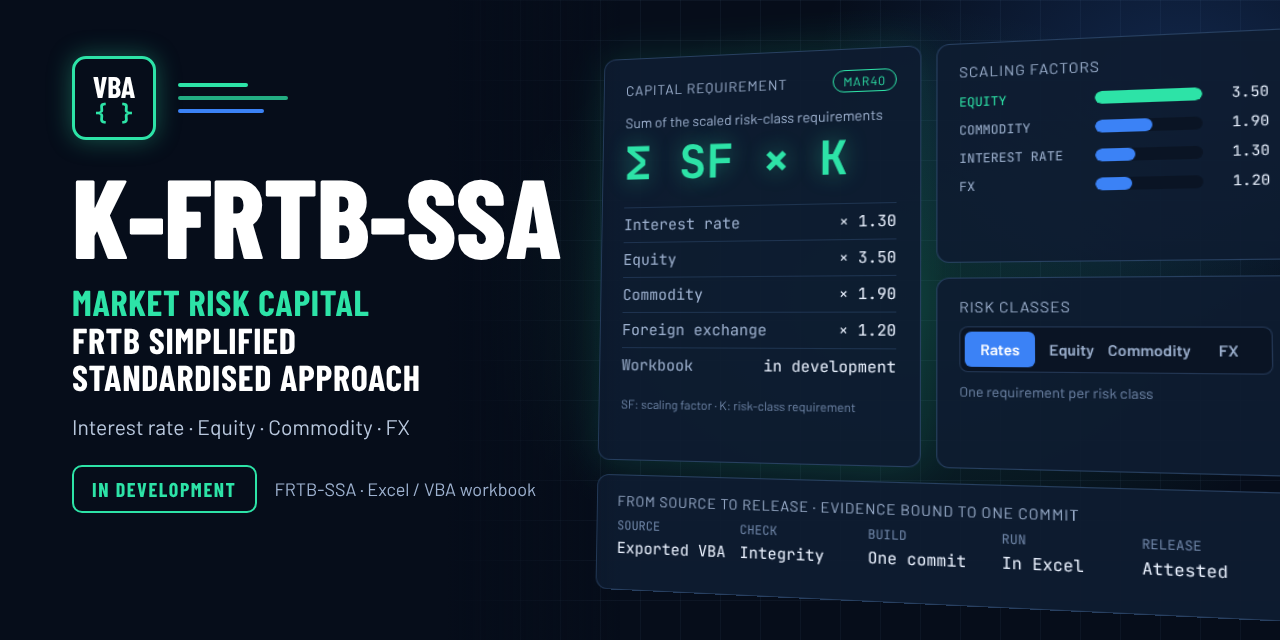
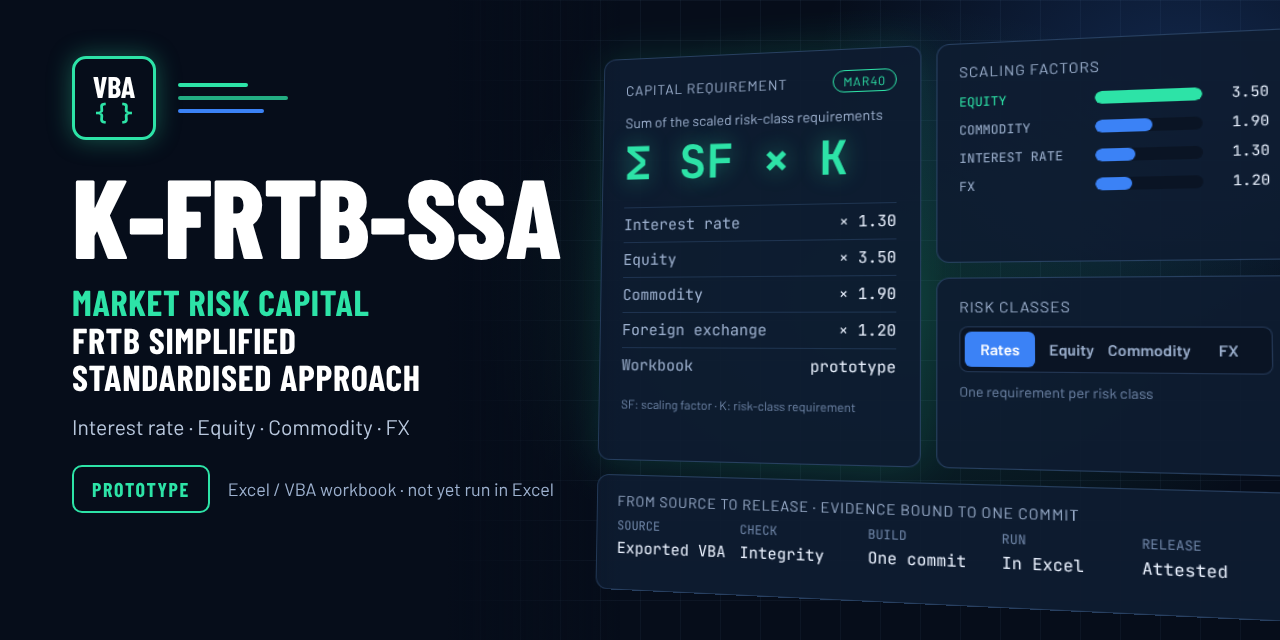
Describe the prototype and update the status documents
A guide for the person who uses the workbook, docs/PROTOTYPE.md, says
what it calculates, its sheets and inputs, how to run it, the four
worksheet functions, how to build it, what it does not do and what has
been checked. SECURITY.md states, for each entry point of the workbook,
the project's test suites and the LibreOffice tools, what they read,
write, save or delete. INSTALLATION.md records the host policy as a
decision. The structure guide describes the two tiers of the public API
inventory. The social preview says Prototype and that the workbook has
not been run in Excel yet, and is rendered again with its SHA-256 updated.

The template called the re-calculation of the sample data independent in
three places, which the validation plan contradicts. It names it as the
project's own re-calculation, with illustrative values, and is written
again by the tool.

Resolves #23
Resolves #54

Claude-Session: https://claude.ai/code/session_01LdwnqXExeVSxoj9U3xrCQu

Changed region(s): [[0.0625, 0.7188, 0.4375, 0.8125], [0.5938, 0.5625, 0.7188, 0.5938]]

diff --git a/docs/assets/social-preview.html b/docs/assets/social-preview.html
@@ -55,7 +55,7 @@ body { margin: 0; }
 </style>
 </head>
 <body>
-<!-- No figure here is a result: the workbook calculates nothing yet. The four scaling factors are those of the simplified standardised approach. -->
+<!-- No figure here is a result: the workbook is a prototype that has not been run in Excel. The four scaling factors are those of the simplified standardised approach, MAR40.2. -->
 <div class="frame">
 
 <div class="cards">
@@ -74,7 +74,7 @@ body { margin: 0; }
 <div class="row"><span class="muted">Equity</span><span>&times; 3.50</span></div>
 <div class="row"><span class="muted">Commodity</span><span>&times; 1.90</span></div>
 <div class="row"><span class="muted">Foreign exchange</span><span>&times; 1.20</span></div>
-<div class="row"><span class="muted">Workbook</span><span>in development</span></div>
+<div class="row"><span class="muted">Workbook</span><span>prototype</span></div>
 </div>
 <span class="faint" style="font-size: 12px">SF: scaling factor &middot; K: risk-class requirement</span>
 </div>
@@ -131,8 +131,8 @@ body { margin: 0; }
 <div class="condensed green" style="font-weight: 700; font-size: 36px; line-height: 1.05; letter-spacing: 0.02em">MARKET RISK CAPITAL<br><span style="color: #FFFFFF">FRTB SIMPLIFIED<br>STANDARDISED APPROACH</span></div>
 <div style="font-size: 21px; color: #B9C8DE">Interest rate &middot; Equity &middot; Commodity &middot; FX</div>
 <div style="display: flex; align-items: center; gap: 18px; margin-top: 8px">
-<span class="condensed green" style="padding: 10px 18px; border: 2px solid #2DE3A7; border-radius: 10px; font-weight: 700; font-size: 20px; letter-spacing: 0.08em">IN DEVELOPMENT</span>
-<span class="muted" style="font-size: 18px">FRTB-SSA &middot; Excel / VBA workbook</span>
+<span class="condensed green" style="padding: 10px 18px; border: 2px solid #2DE3A7; border-radius: 10px; font-weight: 700; font-size: 20px; letter-spacing: 0.08em">PROTOTYPE</span>
+<span class="muted" style="font-size: 18px">Excel / VBA workbook &middot; not yet run in Excel</span>
 </div>
 </div>
 

diff --git a/tools/prototype/build_prototype.py b/tools/prototype/build_prototype.py
@@ -1243,13 +1243,14 @@ def build_test_catalogue(ctx: Context) -> None:
     calc = D.calc_all()
     ws = new_sheet(wb, "TestCatalogue", "Reference-test catalogue",
                    "Each test reads one output cell. T01-T03 reproduce the published MAR40.61 Table 9 example; the others "
-                   "are an independent re-calculation (Python) of the shipped sample data, so they FAIL by design once the "
-                   "sample positions or parameters are changed.", "N", "test",
-                   {"C": 6.8, "D": 14.8, "E": 46.8, "F": 26.8, "G": 24.8, "H": 12.8, "I": 16.8, "J": 16.8, "K": 11.8,
+                   "compare the shipped sample data with a re-calculation (Python) that the project wrote from the same "
+                   "reading of MAR40 as the engine, so its values are illustrative and validate no rule. They FAIL by "
+                   "design once the sample positions or parameters are changed.", "N", "test",
+                   {"C": 6.8, "D": 14.8, "E": 46.8, "F": 26.8, "G": 27.8, "H": 12.8, "I": 16.8, "J": 16.8, "K": 11.8,
                     "L": 9.8, "M": 9.8, "N": 4}, 33.95)
     header(ws, 6, "C", ["Test", "Area", "Description", "Source", "Source status", "Sheet", "Actual", "Expected",
                         "Abs diff", "Tolerance", "Result"], "input", 11, 30, 5)
-    pub, ind = "Official published example", "Independent re-calculation"
+    pub, ind = "Official published example", "Illustrative re-calculation"
     ir = calc["ir"]
     zrow = {c: ZF + i for i, (c, _, _) in enumerate(D.FX)}
     tests: list[tuple[str, str, str, str, str, str, float]] = [
@@ -1440,7 +1441,7 @@ def fill_home(ctx: Context) -> None:
         ("COCalc", "Outputs. Every intermediate per commodity row."),
         ("FXCalc", "Outputs. Every intermediate per FX row."),
         ("Checks", "Outputs. Errors, warnings and information lines; rejected rows with reasons."),
-        ("TestCatalogue", "Reference and tests. Published example and independent re-calculation."),
+        ("TestCatalogue", "Reference and tests. Published example and the project's own re-calculation."),
         ("README", "Reference. Methodology, conventions, scope and limitations."),
     ]
     for k, (sh, txt) in enumerate(sheet_desc):

diff --git a/docs/PROTOTYPE.md b/docs/PROTOTYPE.md
@@ -1,0 +1,187 @@
+# 🧮 The prototype
+
+This guide is for you if you want to use the workbook, or to understand what
+it does before you read its contracts. It is a prototype: I have run it only
+in LibreOffice's VBA mode, never in Excel, and I have not validated it for
+regulatory reporting. [What has been checked](#what-has-been-checked) says
+what exists.
+
+## What it calculates
+
+The market risk own funds requirement and the risk-weighted assets under the
+simplified standardised approach of the Basel Framework's chapter MAR40
+([`SRC-02`](methodology/SOURCES.md)):
+
+- **Interest rate risk:** the specific risk of debt positions, netted per
+  issue, and the general market risk by the maturity method, with one ladder
+  per currency ([`CALC-02`](methodology/CALCULATION_CONTRACTS.md),
+  [`CALC-03`](methodology/CALCULATION_CONTRACTS.md)).
+- **Equity risk:** the specific risk, the index charge and the general market
+  risk per national market (`CALC-04`).
+- **Commodities risk:** the simplified approach, per commodity (`CALC-05`).
+- **Foreign exchange risk,** gold included, by the shorthand method
+  (`CALC-06`).
+- **The requirement:** the four charges and the non-delta option charges you
+  enter, each class multiplied by its scaling factor, and the risk-weighted
+  assets as 12.5 times the total (`CALC-07`, `CALC-08`).
+
+The [contracts](methodology/CALCULATION_CONTRACTS.md) state each rule with its
+paragraph of MAR40.
+
+## What you need
+
+- Microsoft 365 Excel desktop on Windows, 64-bit, the host the
+  [installation guide](../INSTALLATION.md#%EF%B8%8F-host-policy) names.
+  Nothing here needs a lower macro-security level.
+- A workbook you build from the source of one commit. The repository ships no
+  workbook, and none is released: [How to build it](#how-to-build-it).
+- Macros enabled in that workbook. Its code reads and writes the workbook
+  itself and nothing else: [`SECURITY.md`](../SECURITY.md#%EF%B8%8F-runtime-risk-surface)
+  says what each entry point does.
+
+## The sheets
+
+The workbook has 18 sheets, all visible, in this order
+([workbook contract](methodology/WORKBOOK_CONTRACT.md#sheets)):
+
+| Kind | Sheets | What you do |
+| --- | --- | --- |
+| Reference | `Home`, `README` | Read them. `Home` says what to do; `README` holds the conventions, the limits and the build stamp |
+| Input | `Params`, `IRPositions`, `EQPositions`, `COPositions`, `FXPositions`, `OptionCharges` | Type in them. No code writes them |
+| Output | `Results`, `IR_Zones`, `IR_Ladder`, `Buckets`, `IRCalc`, `EQCalc`, `COCalc`, `FXCalc` | Read them. A run replaces their content |
+| Diagnostics | `Checks`, `TestCatalogue` | Read them: the findings of a run, and the comparison of the sample data with expected values |
+
+## The inputs
+
+The [data contract](methodology/DATA_CONTRACT.md) defines every field, its
+unit, its allowed values and how a cell is read.
+
+- **`Params`:** the reporting date and currency, the MAR40 constants, the
+  specific-risk table, the time bands and the FX rates, one per currency and
+  one for gold. The constants hold the reference values of MAR40; a value you
+  change is a what-if, and `Checks` reports it.
+- **`IRPositions`, `EQPositions`, `COPositions`, `FXPositions`:** one row per
+  position, up to 500 rows on each sheet. The workbook converts nothing: a
+  derivative is a row for each leg, the category and rating of an issuer are
+  yours to enter, and the net position of a currency is the figure you
+  derive outside the workbook.
+- **`OptionCharges`:** the non-delta charge of each risk class, calculated
+  outside the workbook, one value per class, added before scaling.
+
+The template ships synthetic sample data. It reproduces the published example
+of table 9 of MAR40.61 for foreign exchange risk, and is otherwise
+illustrative: replace it with your own synthetic or real inputs before you
+read a result.
+
+## How to run it
+
+Press **Alt+F8** and run one of the macros of `M_Main`:
+
+| Macro | What it does |
+| --- | --- |
+| `RunSSA` | Reads every input, calculates, and writes every output sheet. It then shows a summary |
+| `ClearOutputs` | Empties the output sheets and sets the status to not calculated |
+| `CheckStatus` | Tells you whether the results shown are those of the inputs on the sheets |
+
+`RunSSA_Silent`, `ClearOutputs_Silent` and `CheckStatus_Silent` do the same
+without a message box. The workbook also runs the check when you open it and
+before you save it.
+
+The status line of `Results`, and `E1` of every other output sheet, is the
+status of the last run:
+
+| Begins | Meaning |
+| --- | --- |
+| `Not calculated` | The output sheets are empty |
+| `OK` | Every input row was used |
+| `INCOMPLETE` | Some rows were rejected, and are excluded from the totals; `Checks` lists each with its reason |
+| `STOPPED` | A parameter is unusable: nothing was calculated, and `Checks` says which |
+| `FAILED` | The run raised an error: the output sheets are empty, and the line gives the time and the error |
+| `OUTDATED` | An input changed after the run: do not read the results until you run again |
+
+A row is `OK`, `INVALID: <reason>` or `EXCLUDED: <reason>` on its calculation
+sheet. A rejected row contributes nothing: read `Checks` before you rely on
+a total.
+
+`Results` gives, for each risk class, the specific risk, the general market
+risk, the other charge, the options, the requirement before scaling, the
+scaling factor and the requirement after scaling, then the total and the
+risk-weighted assets. `IRCalc`, `EQCalc`, `COCalc` and `FXCalc` hold every
+intermediate value of each row; `IR_Ladder`, `IR_Zones` and `Buckets` hold the
+ladders, the offsets and the totals per market, commodity and currency.
+
+## The worksheet functions
+
+Four functions calculate from their arguments and read or write no sheet:
+
+| Function | Gives |
+| --- | --- |
+| `FRTBSSA_TimeBand(ResidualMaturity, Coupon, Floating)` | The time band of a position, by table 4 of MAR40.26 |
+| `FRTBSSA_LadderCharge(WeightedLong, WeightedShort)` | The general market risk charge of one ladder |
+| `FRTBSSA_FXCharge(SumNetLong, SumNetShort, GoldPosition)` | The foreign exchange charge: 8% of the larger of the two sums, plus gold, as in table 9 of MAR40.61 |
+| `FRTBSSA_CommodityCharge(NetPosition, GrossPosition)` | The commodity charge: 15% of the net position plus 3% of the gross position |
+
+An input outside a function's domain gives an error value. The
+[public API inventory](PUBLIC_API.txt) lists them as the supported API.
+
+## How to build it
+
+From a clone, at the commit you want, with Python 3.11 or later:
+
+```sh
+python tools/devbuild/build_workbook.py --configuration production
+```
+
+It writes `test-results/build/Workbook-production.xlsm`, which Git ignores:
+the sheets of the template, the VBA modules of `src/` and a build stamp with
+the commit. The `development` configuration adds the test modules. The
+[installation guide](../INSTALLATION.md#%EF%B8%8F-building-a-workbook-from-source)
+says how to open it, how to compile it and how to record an Excel run.
+
+## What it does not do
+
+- **Interest rate risk by the duration method,** commodities risk by the
+  maturity ladder approach, and the delta-plus and scenario methods for
+  options: the workbook uses the maturity method and the simplified
+  approach, and you enter the non-delta charge of options.
+- **Securitisation positions,** credit derivatives and the correlation
+  trading portfolio. Nothing in an input identifies one: entered as a debt
+  position, it is calculated as one. Do not enter it.
+- **Any conversion for you:** derivatives into positions, the delta of an
+  option, the category and rating of an issuer, and the net open position in
+  each currency are inputs.
+- **National discretions,** the equity arbitrage treatments, the offset of
+  depository receipts, the exemption for insignificant foreign exchange
+  business, and a jurisdiction's own implementation of MAR40.
+- **Everything outside MAR40,** such as the sensitivities-based method of the
+  standardised approach.
+- **More than 500 rows** on a position sheet: the template is formatted for
+  500, and a run above that is not stopped yet
+  ([issue 45](https://github.com/danielep71/K-FRTB-SSA/issues/45)). It does
+  not reject every instrument it cannot calculate either
+  ([issue 44](https://github.com/danielep71/K-FRTB-SSA/issues/44)).
+
+The [support matrix](methodology/README.md#support-matrix) lists each feature
+with its status, and each contract's *Limits and non-goals* name what it
+leaves out.
+
+## What has been checked
+
+- **MAR40.** Every parameter of the engine equals the text of the Basel
+  Framework chapter in force from 2023-01-01, compared on 2026-11-16.
+- **Test cases.** 18 [test cases](methodology/TEST_CASES.md) run on the
+  engine in LibreOffice and agree with their expected values. Two values are
+  published in MAR40.61, the overall net open position and the requirement
+  of the example of table 9. The other 325 are `illustrative`: I derived them
+  from the contracts, as I wrote the engine from them, so their agreement
+  validates no rule.
+- **Tests of the code.** Four VBA suites run under the
+  [test harness](methodology/TEST_HARNESS.md), in LibreOffice only.
+- **Excel.** The workbook has not been compiled or run in Excel, so no
+  evidence of a run exists. The [Host behaviour](methodology/VALIDATION_PLAN.md#host-behaviour)
+  table lists what the code relies on Excel to do, and which of it has been
+  measured.
+
+The [validation plan](methodology/VALIDATION_PLAN.md) gives each rule's status.
+Do not use a result of this workbook for regulatory reporting, and do not read
+it as a statement of compliance.

diff --git a/SECURITY.md b/SECURITY.md
@@ -75,10 +75,15 @@ you can tell intended behaviour from a vulnerability.
 
 | Component | Reads | Writes or deletes |
 | --- | --- | --- |
-| Test harness and example suite (`tests/modules/`), in the development workbook only | The test-case files under the fixtures folder it is given; Excel's `Calculation`, `DisplayAlerts`, `EnableEvents` and `ScreenUpdating`, the number of open workbooks, the active window's caption, the host's name, version, build and operating system, and the `build_commit` defined name of its own workbook | Its logs, `results.json` and the certification log in the evidence folder it is given, replacing a file of the same name; the example suite changes `Calculation` and `ScreenUpdating` and restores them. It deletes no file |
+| Test harness and example suite (`tests/modules/`), in the development workbook only | The illustrative test-case files under the fixtures folder it is given; Excel's `Calculation`, `DisplayAlerts`, `EnableEvents` and `ScreenUpdating`, the number of open workbooks, the active window's caption, the host's name, version, build and operating system, and the `build_commit` defined name of its own workbook | Its logs, `results.json` and the certification log in the evidence folder it is given, replacing a file of the same name; the example suite changes `Calculation` and `ScreenUpdating` and restores them. It deletes no file |
+| The project's suites (`TEST_Suite`, `TEST_Workbook`, `TEST_Probes` and `TEST_Cases` in `tests/modules/`), in the development workbook only | The sheets and defined names of their own workbook, and the settings the harness compares; none reads a file | Their log, certification log and, for `TEST_Cases`, results file in the evidence folder they are given. `TEST_Workbook`, `TEST_Probes` and `TEST_Cases` run `RunSSA_Silent`, which rewrites the output sheets, and leave them cleared. `TEST_Cases` replaces the reporting date and currency, the FX table, the option charges and the four position sheets with those of each test case, and puts them back, values and formulas, changing the number format of a cell for the write of a text and restoring it. `TEST_Probes` appends rows under the position tables and removes them, changes `ScalingIR` and `ThisWorkbook.Saved` for one check and puts both back. None saves the workbook, deletes a file, starts a process, creates an external object or reaches the network. An error stops a case, not the run, and `TEST_Cases` puts the inputs back on that path too; a run stopped with **End** or **Reset** leaves a test case's inputs on the sheets, so build the workbook again |
+| `tools/prototype/verify.py`, `run_cases.py` and `tools/devbuild/lo_macro.py`, optional repository tooling with LibreOffice | The checkout: the template, the test cases and the tools they call; the workbooks they build in a temporary folder | Work in a new temporary folder, or one you give with `--keep`: build the formula workbook and the development workbook there, start headless LibreOffice with a user profile in that folder, run a macro of the workbook and save the recalculated sheets as a macro-free `.xlsx`; compare the saved values with the expected values; delete the temporary folder when they end. They never save the workbook you give them, and call the same LibreOffice as `lo_smoke.py` |
 | `tools/devbuild/excel_run.py`, repository tooling on Windows | The checkout; the evidence folder and the workbook it built, which its check reads; the Windows version from the registry; the `AccessVBOM` value, for the Trust access to the VBA project, under `Software\Policies\Microsoft\Office\<version>\Excel\Security` in HKCU and in HKLM and under `Software\Microsoft\Office\<version>\Excel\Security` in HKCU; Excel's `Version`, `Build`, `Path`, `AutomationSecurity` and `Hwnd` through COM, read only; the PE header of `EXCEL.EXE` in that path, for its bitness; the process id of its own Excel instance, from its `Hwnd` window, and that process's name and start time; and your Windows user name when `--operator` is not given | Builds the development workbook under `test-results/build/`; empties the evidence folder, but only one under `test-results/`, and otherwise requires an empty or new folder, and writes `host.txt` in it and its report beside it as `<folder>-report.txt`; starts its own Excel instance, sets its `Visible` to true and its `DisplayAlerts` to false, opens the workbook read-only without updating links, closes it without saving and quits that instance; if that instance is still running 30 seconds after it quits, ends its process, and only that one: it ends no process whose name is not `EXCEL` or whose start time is not the one it recorded when it started the instance; for its check, creates a temporary folder, adds there a temporary Git worktree of the commit, which it registers in the checkout's repository, builds a second workbook from it in that folder, and removes the worktree and the folder when the check ends; to measure the accuracy contracts, the check also writes the commit's test cases into another temporary folder, which it deletes after the measurement |
 | `tools/devbuild/lo_smoke.py`, optional repository tooling with LibreOffice | The checkout: `.github/excel-evidence-policy.json`, the source of the development workbook when you give it no workbook, and the test cases under `tests/fixtures`; the workbook you give it, which must be one you built | Works in a new temporary folder: builds the development workbook there when you give it none; starts headless LibreOffice with a user profile in that folder, not yours, and sets that profile to load and run VBA; opens the workbook in that headless LibreOffice with `MacroExecutionMode` 4, so its macros run without a warning; runs the certification entry point of the example suite and of each project suite, which write their evidence into a folder there. The workbook suite and the cases suite run the calculation on the open copy: they rewrite its output sheets, and the cases suite replaces its inputs and puts them back; closes the workbook without saving it. It deletes the temporary folder, profile and evidence included, when it ends |
-| Production workbook (`src/`) | Stated for each entry point, as *Other code* below requires | Stated for each entry point, as *Other code* below requires |
+| `M_Main.RunSSA` and `RunSSA_Silent`, in the production and the development workbook | Every input area of its own workbook: the reporting date and currency, the MAR40 constants, the specific-risk table, the time bands and the FX table of `Params`, the four position sheets and `OptionCharges`; the defined names of those areas; and Excel's `Calculation`, `ScreenUpdating` and `EnableEvents` | Clears, then writes, every output area: `Results`, `IR_Zones`, `IR_Ladder`, `Buckets`, `IRCalc`, `EQCalc`, `COCalc`, `FXCalc` and `Checks`, with `Results_Fingerprint` and `Results_Status`. It sets calculation to manual, and screen updating and events off, for the run, and puts them back, on the success and the error path. `RunSSA` also shows a message box and activates `Checks` or `Results`; the silent variant does neither, returns a result line and re-raises an error. It saves nothing, deletes no sheet or file, starts no process, creates no external object, calls no native library and reaches no network: the calculation needs none |
+| `M_Main.ClearOutputs` and `ClearOutputs_Silent` | The defined names of the output areas, and Excel's settings as above | Clears the values of the same output areas, not their formats, and sets `Results_Status` to *Not calculated*. It goes on after an area it cannot clear and then stops with an error that names it. `ClearOutputs` shows a message box on failure. As `RunSSA` for the settings, and for saving, deleting, processes, objects, libraries and the network |
+| `M_Main.CheckStatus`, `CheckStatus_Silent` and `CheckStatus_OnEvent` | Every input area, `Results_Fingerprint` and `Results_Status`, and Excel's settings as above | `Results_Status`, and only when it must change: it writes or takes away `OUTDATED:` before the line of the run. `CheckStatus` shows a message box. `CheckStatus_OnEvent` is what `ThisWorkbook` runs when the workbook is opened and before it is saved: it shows no message, raises no error, saves nothing and cancels no save, and leaves the workbook marked as saved when it was and it wrote nothing. As `RunSSA` for the rest |
+| Worksheet functions of `FRTBSSA_Formulas` | Their arguments | Nothing: they read and write no sheet, and return a value or an error value |
 
 - **Excel settings.** The procedures need their workbook's macros to be
   enabled, by your organization's policy or by **Enable Content**, and

diff --git a/docs/REPOSITORY_STRUCTURE.md b/docs/REPOSITORY_STRUCTURE.md
@@ -16,7 +16,7 @@ them are already set in `.gitattributes`, `.editorconfig` and `.gitignore`.
 | Repository root | The README; the contribution, conduct, security, installation and release guides (`CONTRIBUTING.md`, `CODE_OF_CONDUCT.md`, `SECURITY.md`, `INSTALLATION.md`, `RELEASING.md`); `CHANGELOG.md`, `AGENTS.md` and `LICENSE`; the Ruff and mypy settings in `pyproject.toml`; the Git and editor rules in `.gitattributes`, `.gitignore` and `.editorconfig`; and the [project website](WEBSITE.md), `index.html`, with the empty `.nojekyll` that publishes it without Jekyll | Present |
 | `VERSION` | The newest released version, published or not, one `X.Y.Z` line, created when the first release is prepared ([releasing](../RELEASING.md#current-status)) | Does not exist yet: no version has been released, as [current status](../RELEASING.md#current-status) also states |
 | `.github/` | Workflows (`workflows/`) and the label scripts they run (`scripts/`); issue forms (`ISSUE_TEMPLATE/`) and the pull request template; the label catalogue `labels.json`; the Dependabot configuration and the hash-locked Python packages of the tests and checks, the configuration parser and openpyxl (`requirements.txt`); the binary allowlist `binary-allowlist.json`; the Excel evidence policy `excel-evidence-policy.json`; and, when needed, the expiring link exceptions `link-exceptions.json` | Present, without `link-exceptions.json` |
-| `docs/` | Governance, setup, structure, style and the API inventory; the templates of the release certification and milestone closeout records and the pre-release maintenance audit (`docs/release/`); and the license texts, the third-party notice and its machine-readable provenance (`docs/licenses/`) | Present |
+| `docs/` | The [prototype guide](PROTOTYPE.md), governance, setup, structure, style and the API inventory; the templates of the release certification and milestone closeout records and the pre-release maintenance audit (`docs/release/`); and the license texts, the third-party notice and its machine-readable provenance (`docs/licenses/`) | Present |
 | `docs/assets/` | The repository's social preview image, `social-preview.png`, shown in the README and on the website, its editable source `social-preview.html`, and the [guide](assets/README.md) to rendering it; and the website's stylesheet, `site.css` | Present |
 | `docs/native-declarations.json` | The [register of native declarations](#native-declarations): each export a `Declare` imports, with its library, whether its zero result is ambiguous and, optionally, its ABI | Present, with no declaration |
 | `docs/methodology/` | The [index](methodology/README.md) of the guides: sources, data contract and its machine-readable form `data-contract.json`, calculation contracts, validation plan, test-case format, [workbook contract](methodology/WORKBOOK_CONTRACT.md) and [VBA test harness](methodology/TEST_HARNESS.md) | Present. The workbook contract describes the prototype; the other guides are still to fill in, with the illustrative dataset `DS-01` |
@@ -85,7 +85,9 @@ review.
 ## Public API inventory
 
 [PUBLIC_API.txt](PUBLIC_API.txt) lists every `Public` declaration under
-`src/`, in two tiers; both are empty for now.
+`src/`, in two tiers: the supported tier holds the four worksheet
+functions of `FRTBSSA_Formulas`, and the project-public tier the other
+public declarations of the engine and the workbook adapters.
 
 - **`[supported]`:** the supported API, the public declarations of the
   standard modules in `src/modules/`. A `Public` declaration is supported

diff --git a/README.md b/README.md
@@ -64,7 +64,7 @@ calculation, which has not been compiled or run in Excel:
 
 | Area | State |
 | --- | --- |
-| Calculation | Prototype. The VBA source of a MAR40 engine for the four risk classes is under `src/`, with a macro-free template of 18 sheets and synthetic sample data ([workbook contract](docs/methodology/WORKBOOK_CONTRACT.md)). I have run it only in LibreOffice's VBA mode: it is not compiled or run in Excel, no evidence of a run is recorded here, and it is not validated for regulatory reporting |
+| Calculation | Prototype. The VBA source of a MAR40 engine for the four risk classes is under `src/`, with a macro-free template of 18 sheets and synthetic sample data: [the prototype](docs/PROTOTYPE.md) says what it calculates, how to use and build it and what it does not do, and the [workbook contract](docs/methodology/WORKBOOK_CONTRACT.md) defines its layout. I have run it only in LibreOffice's VBA mode: it is not compiled or run in Excel, no evidence of a run is recorded here, and it is not validated for regulatory reporting |
 | Methodology | The Basel Framework's chapter MAR40 is the [registered source](docs/methodology/SOURCES.md), and each calculation of the engine has a [contract](docs/methodology/CALCULATION_CONTRACTS.md) whose rules cite it, with every parameter compared with the text. The [data contract](docs/methodology/DATA_CONTRACT.md) defines every input field and how a cell is read. No rule is validated |
 | Test cases | 18 [cases](docs/methodology/TEST_CASES.md) cover the seven calculations: the sample portfolio, limits and invalid rows. One holds values published in MAR40; the others are derived within the project and validate nothing. The workbook's VBA tests are four suites of the [test harness](docs/methodology/TEST_HARNESS.md#the-projects-suites), with a certification entry point each; one of them, generated from the cases, runs all 18 in the workbook, and one probes what the workbook relies on Excel to do. They have run only in LibreOffice: no case has run in Excel |
 | Tooling and governance | In use: every change goes through a pull request that **Repository integrity** checks |
@@ -159,6 +159,7 @@ The full layout and its rules are in
 | --- | --- |
 | [`docs/methodology/`](docs/methodology/README.md) | Sources, data contract, calculation and workbook contracts, test cases, test harness, validation plan |
 | [`INSTALLATION.md`](INSTALLATION.md) | Moving source between the repository and Excel, recording an Excel run, upgrades, troubleshooting and removal |
+| [`docs/PROTOTYPE.md`](docs/PROTOTYPE.md) | The prototype for the person who uses it: what it calculates, the sheets and inputs, how to run it, the worksheet functions, how to build it, what it does not do and what has been checked |
 | [`docs/REPOSITORY_STRUCTURE.md`](docs/REPOSITORY_STRUCTURE.md) | Source layout, reserved paths, dependency direction |
 | [`docs/VBA_HOUSE_STYLE.md`](docs/VBA_HOUSE_STYLE.md) | VBA naming, contracts, errors, cleanup and static checks |
 | [`docs/repo_governance/`](docs/repo_governance/README.md) | Settings, issue labels, pull requests, traffic, distribution |

diff --git a/CHANGELOG.md b/CHANGELOG.md
@@ -65,6 +65,17 @@ Use only the categories an entry needs.
 
 ### Added
 
+- A guide to the prototype for the person who uses it, `docs/PROTOTYPE.md`:
+  what the workbook calculates, what it needs, its 18 sheets and its inputs,
+  how to run `RunSSA`, `ClearOutputs` and `CheckStatus` and read the status
+  line, the four worksheet functions, how to build the workbook, what it does
+  not do and what has been checked. The README and the installation guide
+  link it. `SECURITY.md` now states, for each entry point of the workbook and
+  for the project's test suites and the LibreOffice tools, what it reads,
+  writes, saves or deletes, and that none starts a process or reaches the
+  network. `INSTALLATION.md` records the host policy as a decision of the
+  project, which keeps the defaults (#23).
+
 - A `probes` suite for the first Excel run, `tests/modules/TEST_Probes.bas`:
   6 cases and 42 assertions that measure what the workbook relies on Excel
   to do. An error value typed in an input cell reads as `#ERROR` where an
@@ -176,6 +187,12 @@ Use only the categories an entry needs.
 
 ### Changed
 
+- The social preview says *Prototype* and that the workbook has not been run
+  in Excel yet, where it said *In development*; its only figures are still
+  the four scaling factors of MAR40.2. The sentence of the structure guide
+  that called the public API inventory empty now describes its two tiers
+  (#23).
+
 - `TEST_Suite.Test_RunAll` no longer exists: run the two suites of the VBA
   tests by their entry points. `TEST_Suite.Test_RunCore` now returns the
   `RESULT` line of the harness, as `TEST_Workbook.Test_RunWorkbook` does,
@@ -227,6 +244,11 @@ Use only the categories an entry needs.
   `docs/assets/social-preview.html` (#6).
 
 ### Fixed
+
+- The template no longer calls the re-calculation of the sample data
+  independent. The `TestCatalogue` sheet and the sheet list on `Home` name it
+  as the project's own re-calculation, whose values are illustrative, as the
+  validation plan states (#54).
 
 - The skeleton of a case of an end-to-end case runner, in the harness guide,
   passes the VBA checks: the handler records the case's error and resumes to

diff --git a/docs/assets/README.md b/docs/assets/README.md
@@ -9,7 +9,8 @@ workbook or replace the [methodology](../methodology/README.md).
 README shows it. To use it as the social preview too, upload the same file in
 **Settings → General → Social preview**: GitHub offers no API for it.
 
-It shows no result of a calculation. Its only figures are the four scaling
+It shows the stage, *Prototype*, and that the workbook has not been run in
+Excel yet, and no result of a calculation. Its only figures are the four scaling
 factors of the simplified standardised approach, 1.30 for interest rate risk,
 3.50 for equity risk, 1.90 for commodity risk and 1.20 for foreign exchange
 risk. They are those of MAR40.2 of `SRC-02` in the
@@ -30,5 +31,7 @@ After rendering, update the image's SHA-256 in
 [`.github/binary-allowlist.json`](../../.github/binary-allowlist.json):
 **Repository integrity** fails while they differ.
 
-Update the image when the status it states changes, such as *In development*,
-and replace the framework cards with results once the workbook produces them.
+Update the image when the status it states changes, such as *Prototype* or
+the statement that the workbook has not been run in Excel. Show a result figure
+only if it is an expected value that a [test case](../methodology/TEST_CASES.md)
+registers, with its class.

diff --git a/INSTALLATION.md b/INSTALLATION.md
@@ -12,7 +12,11 @@ The repository's own checks are in the
 
 ## 🖥 Host policy
 
-Adapt this section to the project and record the decision in an issue.
+I recorded this policy as a decision on 2026-11-19, in
+[issue 23](https://github.com/danielep71/K-FRTB-SSA/issues/23): the project
+keeps the defaults below. LibreOffice is an early warning that finds some
+defects before a run in Excel; it is not a supported host, and nothing it
+shows is evidence.
 
 - **Target host:** Microsoft 365 Excel desktop on Windows, 64-bit. Windows
   32-bit, older perpetual versions, Mac and Excel for the web are not
